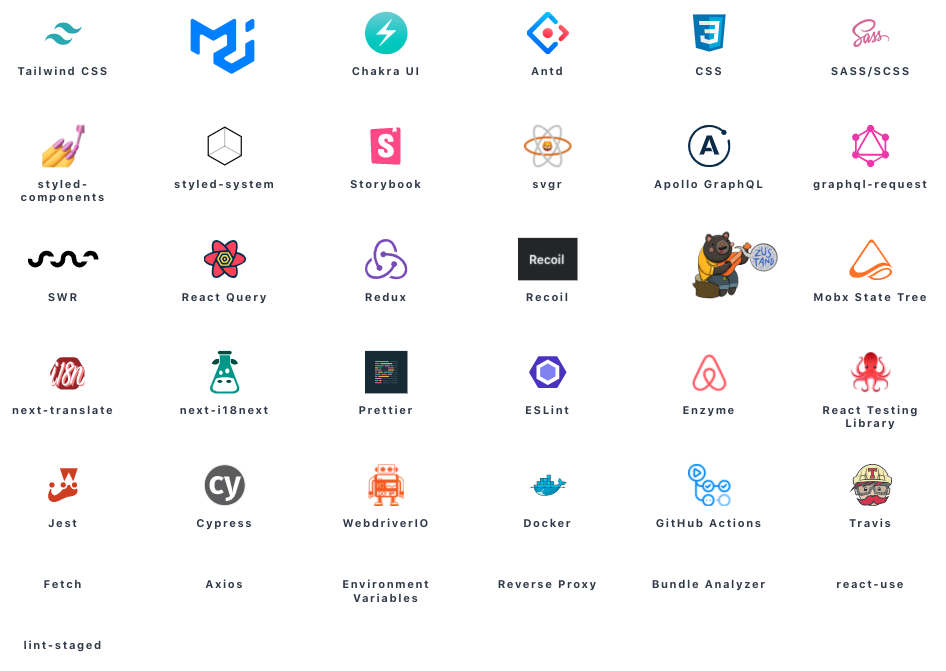
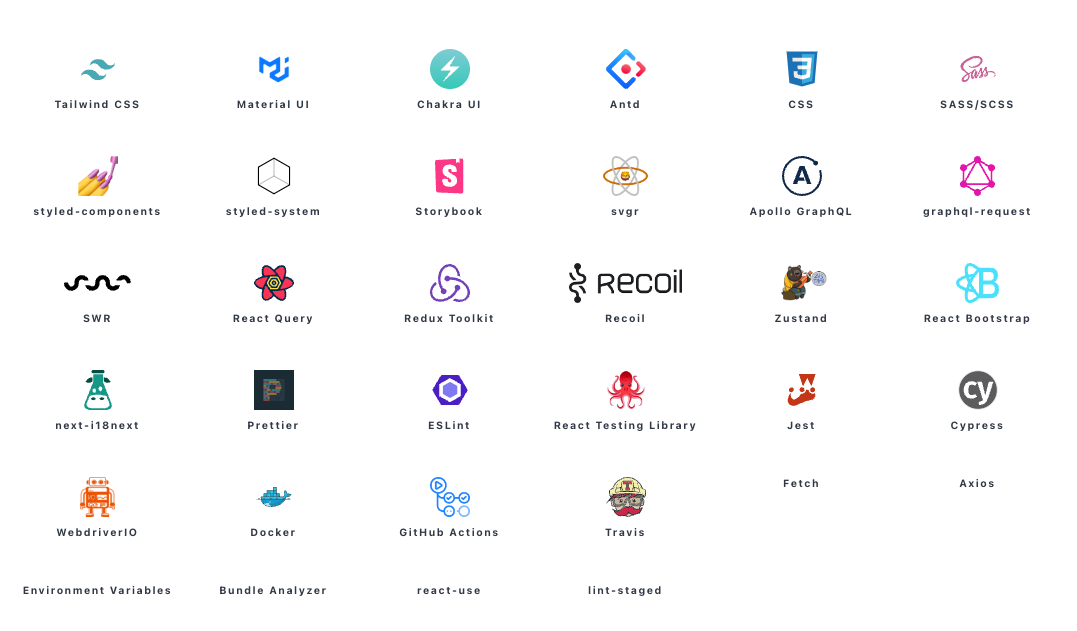
update docs

diff --git a/documentation/src/features.js b/documentation/src/features.js
@@ -5,9 +5,9 @@ export const features = [
         url: "https://tailwindcss.com/"
     },
     {
-        title: 'Bootstrap',
-        imageUrl: 'img/bootstrap.svg',
-        url: "https://getbootstrap.com/"
+        title: 'Material UI',
+        imageUrl: 'img/mui.png',
+        url: "https://mui.com/material-ui/getting-started/overview/"
     },
     {
         title: 'Chakra UI',
@@ -70,29 +70,24 @@ export const features = [
         url: "https://react-query.tanstack.com/"
     },
     {
-        title: 'Redux',
+        title: 'Redux Toolkit',
         imageUrl: 'img/redux.svg',
-        url: "https://redux.js.org/"
+        url: "https://redux-toolkit.js.org/"
+    },
+    {
+        title: 'Recoil',
+        imageUrl: 'img/recoil.png',
+        url: "https://recoiljs.org/"
+    },
+    {
+        title: 'Zustand',
+        imageUrl: 'img/zustand.png',
+        url: "https://github.com/pmndrs/zustand"
     },
     {
         title: 'React Bootstrap',
         imageUrl: 'img/react-bootstrap.svg',
         url: "https://react-bootstrap.github.io/"
-    },
-    {
-        title: 'MobX',
-        imageUrl: 'img/mobx.svg',
-        url: "https://mobx.js.org/README.html"
-    },
-    {
-        title: 'Mobx State Tree',
-        imageUrl: 'img/mobx-state-tree.svg',
-        url: "https://mobx-state-tree.js.org/intro/welcome"
-    },
-    {
-        title: 'next-translate',
-        imageUrl: 'img/next-translate.svg',
-        url: "https://github.com/vinissimus/next-translate"
     },
     {
         title: 'next-i18next',
@@ -108,11 +103,6 @@ export const features = [
         title: 'ESLint',
         imageUrl: 'img/eslint.svg',
         url: "https://eslint.org/"
-    },
-    {
-        title: 'Enzyme',
-        imageUrl: 'img/enzyme.png',
-        url: "https://enzymejs.github.io/enzyme/"
     },
     {
         title: 'React Testing Library',
@@ -161,10 +151,7 @@ export const features = [
         title: 'Environment Variables',
         url: "https://travis-ci.org/"
     },
-    {
-        title: 'Reverse Proxy',
-        url: "https://travis-ci.org/"
-    },
+
     {
         title: 'Bundle Analyzer',
         url: "https://travis-ci.org/"
@@ -172,14 +159,6 @@ export const features = [
     {
         title: 'react-use',
         url: "https://travis-ci.org/"
-    },
-    {
-        title: 'Redux Toolkit',
-        url: "https://redux-toolkit.js.org/"
-    },
-    {
-        title: 'Recoil',
-        url: "https://recoiljs.org/"
     },
     {
         title: 'lint-staged',

diff --git a/documentation/src/pages/index.js b/documentation/src/pages/index.js
@@ -12,8 +12,6 @@ import styles from './styles.module.css';
 function Badges() {
   return (
     <div className={styles.topBadges}>
-      <a href="https://www.producthunt.com/posts/superplate?utm_source=badge-featured&utm_medium=badge&utm_souce=badge-superplate" target="_blank"><img src="https://api.producthunt.com/widgets/embed-image/v1/featured.svg?post_id=293252&theme=light" alt="Superplate - The frontend boilerplate with superpowers | Product Hunt" style={{ width: 250, height: 54 }} width="250" height="54" /></a>
-      <br />
       <a href="https://meercode.io">
         <img src="https://meercode.io/badge/pankod/superplate?type=ci-score&branch=master&token=2ZiT8YsoJgt57JB23NYwXrFY3rJHZboT&lastDay=31" alt="Meercode CI Score" />
       </a>
@@ -26,14 +24,8 @@ function Badges() {
       <a href="https://www.npmjs.com/package/superplate-cli">
         <img src="https://img.shields.io/npm/v/superplate-cli.svg" alt="npm version" />
       </a>
-      <a href="https://david-dm.org/pankod/superplate">
-        <img src="https://david-dm.org/pankod/superplate/status.svg" alt="Dependencies Status" />
-      </a>
-      <a href="https://david-dm.org/pankod/superplate?type=dev">
-        <img src="https://david-dm.org/pankod/superplate/dev-status.svg" alt="devDependencies Status" />
-      </a>
       <a href="https://www.npmjs.com/package/superplate-cli">
-        <img src="https://img.shields.io/npm/dm/superplate-cli" alt="npm" />
+        <img src="https://img.shields.io/npm/dy/superplate-cli" alt="npm" />
       </a>
     </div>
   )

diff --git a/documentation/docs/refine.md b/documentation/docs/refine.md
@@ -4,85 +4,77 @@ id: refine
 title: Refine
 ---
 
+
+
+
+
 ## What is refine?
+**refine** is a React-based framework for the rapid ✨ development of web applications. 
+It eliminates the repetitive tasks demanded by **CRUD** operations and provides industry standard solutions for critical parts like **authentication**, **access control**, **routing**, **networking**, **state management**, and **i18n**.
 
-**refine** is a [React](https://reactjs.org/)-based framework for building data-intensive applications in no time :sparkles: It ships with [Ant Design System](https://ant.design/), an enterprise-level UI toolkit.
-
-Refine offers lots of out-of-the box functionality for rapid development, without compromising extreme customizability. Use-cases include, but are not limited to *admin panels*, *B2B applications* and *dashboards*.
-###
-
-## Key features
-
-⚙ **Zero-configuration**: One-line setup with [superplate](https://github.com/pankod/superplate). It takes less than a minute to start a project.
-
-📦 **Out-of-the-box** : Routing, networking, authentication, state management, i18n and UI.
-
-🔌 **Backend Agnostic** : Connects to any custom backend. Built-in support for [REST API](https://github.com/pankod/refine/tree/master/packages/simple-rest), [Strapi](https://strapi.io/), [NestJs CRUD](https://github.com/nestjsx/crud), [Airtable](https://www.airtable.com/), [Supabase](https://supabase.io/) and [Altogic](https://altogic.com/).
-
-📝 **Native Typescript Core** : You can always opt out for plain Javascript.
-
-🔘 **Decoupled UI** : UI components are exposed directly without encapsulation. You have full control on UI elements.
-
-🐜 **Powerful Default UI** : Works seamlessly with integrated [Ant Design System](https://ant.design/). (Support for multiple UI frameworks is on the Roadmap)
-
-📝 **Boilerplate-free Code** : Keeps your codebase clean and readable.
-
-### Motivation
-
-Higher-level frontend frameworks can save you a lot time, but they typically offer you a trade-off between speed and flexibility. 
-
-After many years of experience in developing B2B frontend applications and working with popular frameworks, we came up with a new approach to tackle this dilemma. This is how **refine** is born.
-
-**Refine** is a collection of helper `hooks`, `components` and `providers`. They are all decoupled from your UI components and business logic, so they never keep you from customizing your UI or coding your own flow.
-
-As **refine** is totally *unopinionated* about UI and logic, it's strongly *opinionated* about three parts of your application:
-
-1. **API Networking**
-2. **State Management**
-3. **Authentication & Authorization**
-
-We believe, these are the most important components of a data-intensive frontend application and should be handled in a robust way by leveraging industry best practices.
-
-**refine** guarantees you a perfect implementation of these building blocks in your project, so you can focus on your development.
-
-### Architecture
-
-**refine** makes extensive use of [hooks](https://reactjs.org/docs/hooks-reference.html#gatsby-focus-wrapper) as a default way for interacting with your components. 
-Under the hood, **refine** relies heavily to [React Query](https://react-query.tanstack.com/) for data handling, caching and state management. 
-Access to external sources and API's happen via providers which are basically plug-in type components for extendibility.
+**refine** is *headless by design* offering unlimited styling and customization options. 
 
 
 
-### Benchmark
+## What do you mean by "headless" ?
+Instead of being a limited set of pre-styled components, **refine** is a collection of helper `hooks`, `components` and `providers`. They are all decoupled from your *UI components* and *business logic*, so they never keep you from customizing your *UI* or coding your own flow.
 
-After releasing the first internal versions, we had the chance to migrate some of our *React* projects to **refine**.
-In addition to **shorter development** times and **overall performance gains**, we've measured significant reduction in project size.
+**refine** seamlessly works with any **custom design** or **UI framework you favor**. For convenience, it ships with ready-made integrations for [Ant Design System](https://ant.design/), [Material UI](https://mui.com/), [Mantine](https://mantine.dev/), and [Chakra UI](https://chakra-ui.com/).
 
-**refine** makes your codebase significantly smaller, by eliminating redundant code such as *reducers*, *actions* and *unit tests*. Below is a size comparison for an example project:
+## Use cases
+**refine** shines on *data-intensive* applications like *admin panels*, *dashboards* and *internal tools*. Thanks to built-in **SSR support**, **refine** can also power *customer-facing* applications like *storefronts*.
+
+<br/>
+<a href="https://github.com/pankod/refine">
+  <img alt="how-works-refine" src="https://user-images.githubusercontent.com/18739364/200257209-8fc0c8b1-2568-453e-873f-00513434deed.png" />
+
+</a>
+
+<br/>
+<br/>
 
 
-### Quick Start
+## Key Features
 
-Run the **superplate** tool with the following command:
+⚙ Zero-config, **one-minute setup** with a **single CLI command**
 
-```
-npx superplate-cli tutorial
-```
+🔌 Connectors for **15+ backend services** including [REST API](https://github.com/refinedev/refine/tree/master/packages/simple-rest), [GraphQL](https://github.com/refinedev/refine/tree/master/packages/graphql), [NestJs CRUD](https://github.com/refinedev/refine/tree/master/packages/nestjsx-crud), [Airtable](https://github.com/refinedev/refine/tree/master/packages/airtable), [Strapi](https://github.com/refinedev/refine/tree/master/packages/strapi), [Strapi v4](https://github.com/refinedev/refine/tree/master/packages/strapi-v4), [Strapi GraphQL](https://github.com/refinedev/refine/tree/master/packages/strapi-graphql), [Supabase](https://github.com/refinedev/refine/tree/master/packages/supabase), [Hasura](https://github.com/refinedev/refine/tree/master/packages/hasura), [Nhost](https://github.com/refinedev/refine/tree/master/packages/nhost), [Appwrite](https://github.com/refinedev/refine/tree/master/packages/appwrite), [Firebase](https://firebase.google.com/), [Directus](https://directus.io/) and [Altogic](https://github.com/refinedev/refine/tree/master/packages/altogic)
 
-Follow the *CLI wizard* to select options and start creating your project.
+🌐 **SSR support** with **Next.js** or **Remix**
 
-After setup is complete, navigate to the project folder and start your project with:
+⚛ Perfect **state management** & **mutations** with **React Query**
 
-```
-npm run dev
-```
+🔀 **Advanced routing** with any router library of your choice
 
-Your **refine** application will be accessible at [http://localhost:3000](http://localhost:3000).
+🔐 Providers for seamless **authentication** and **access control** flows
 
-## Next step
+⚡ Out-of-the-box support for **live / real-time applications**
 
-Can read more about our motivation and refine's features on [https://refine.dev](https://refine.dev) website. It includes docs, tutorials and 40+ real-life examples.
+📄 Easy **audit logs** & **document versioning**
 
-We also made a demo admin panel for the imaginary quick-delivery company "finefoods": [https://example.refine.dev](https://example.refine.dev/)
+💬 Support for any **i18n** framework
 
-Lastly, project's GitHub page is on : [https://github.com/pankod/refine](https://github.com/pankod/refine)
+💪 Future-proof, **robust architecture**
+
+✅ Full **test coverage**
+
+
+## Community
+
+**refine** has a very friendly community and we are always happy to help you get started:
+
+-   [Join the Discord Community](https://discord.gg/refine) – it is the easiest way to get help, all questions are usually answered in about 30 minutes.
+-   [GitHub Discussions](https://github.com/refinedev/refine/discussions) – ask anything about the project or give feedback.
+-   [Contributing](/docs/contributing/) – learn how to contribute refine project.
+-   [Guest Technical Writer Program](https://refine.dev/blog/refine-writer-program/) – join the program and become a blog writer for refine.
+
+## Roadmap
+
+You can find Refine's [Public Roadmap here!](https://github.com/refinedev/refine/projects/1)
+
+## Next Steps
+
+👉 Continue with [Quickstart guide](/docs/getting-started/quickstart/) to setup and run your first **refine** project.
+
+👉 Or jump directly to [Refine - Ant Design Tutorial](/docs/tutorials/ant-design-tutorial/) to learn refine by building a full-blown CRUD application.
+
